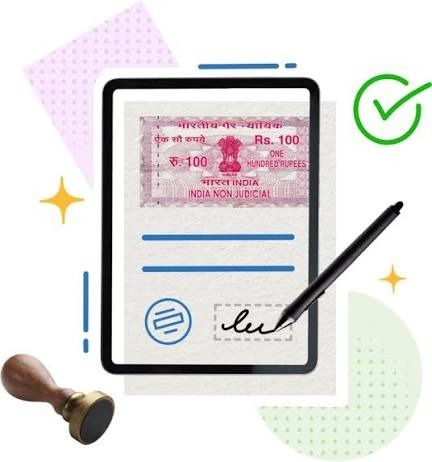
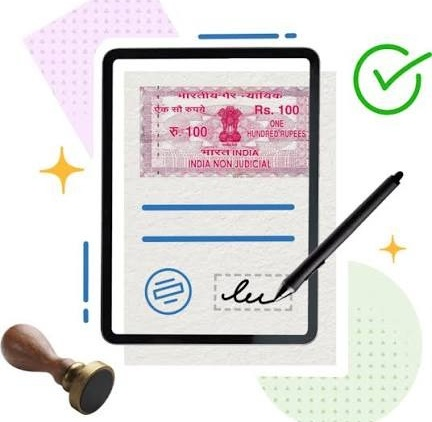
Make Aadhaar e-sign and signature clearly visible on statutory card 4

diff --git a/index.html b/index.html
@@ -475,7 +475,7 @@
 
             <div class="gov-pillar-card-home">
               <div class="pillar-card-icon-wrap">
-                <img src="images/pillar4.jpg" alt="Aadhaar e-Sign &amp; Rs. 100 E-Stamp Deed Tablet" class="pillar-card-img">
+                <img src="images/pillar4.jpg" alt="Aadhaar e-Sign &amp; Rs. 100 E-Stamp Deed Tablet" class="pillar-card-img pillar-img-contain">
               </div>
               <div class="pillar-card-title">Aadhaar e-Sign &amp; E-Stamp Deeds</div>
               <div class="pillar-card-desc">Legally enforceable digital deeds signed with Aadhaar OTP by citizens and Class-3 DSC by Competent Authorities.</div>
